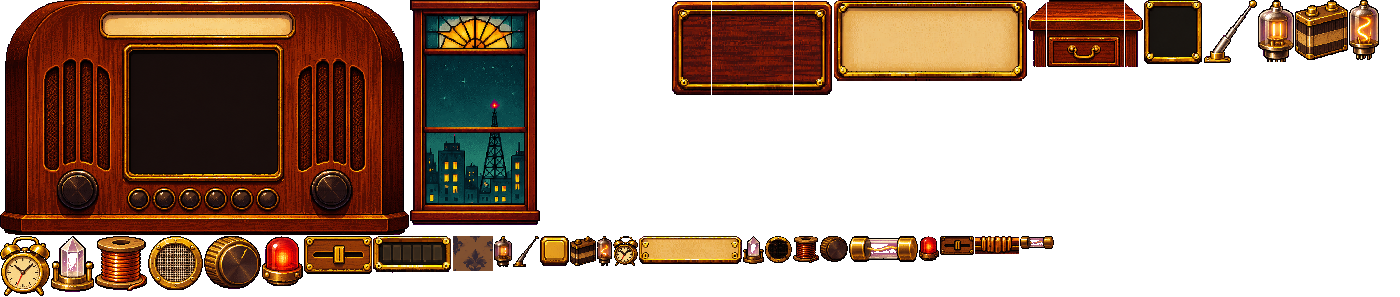
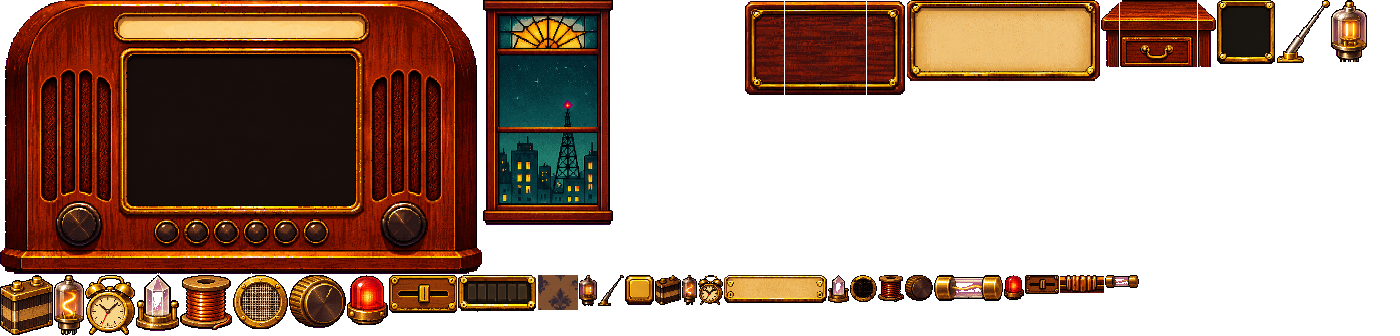
5x5 grid on a redrawn radio with a bigger glass; keys stay the same size
Claude-Session: https://claude.ai/code/session_01GgKVUEWXsHRvrCRcmJ6uSs

diff --git a/index.html b/index.html
@@ -170,7 +170,8 @@ const $ = (id) => document.getElementById(id);
 const DICT = new Set((window.LEX_WORDS || "").split(" "));
 const cv = $("screen"), ctx = cv.getContext("2d");          // the screen: 2 fine pixels per world pixel
 let H = 425, BAR_H = 120, SCENE_H = 305; const FINE = 2;   // narrower screens (phones) get a taller world with a two-row bar (H 495, bar 190)
-const PART_SLOTS = 5;   // a game rule, the same on every screen: copies of one part stack in one slot
+const PART_SLOTS = 5;
+const N = 5, NN = N * N;   // the grid of keys in the glass: 5 x 5 (2026-11-12, the radio was redrawn with a bigger glass for it)   // a game rule, the same on every screen: copies of one part stack in one slot
 const BIN = { t: 12, b: 12, l: 14, r: 14 };                  // the bar's inner gold border: everything sits inside it
 let W = 712, TK = 1;   // TK: text scale, 1.5 when the screen is small (phones) so typed text stays readable
 const world = document.createElement("canvas"), wctx = world.getContext("2d");   // the room, keys and bar, in world pixels
@@ -299,12 +300,12 @@ function layout() {
 function computeLayout() {
   const rw = R("radio")[2], wide = W >= 650;
   L.radioX = wide ? W - rw - 21 : W - rw - 5; L.radioY = 18;
-  L.winX = wide ? Math.max(18, Math.round((L.radioX - R("window")[2]) / 2)) : L.radioX - R("window")[2] + 10; L.winY = 22;   // the tall window (225 high) sits higher
+  L.winX = wide ? Math.max(18, Math.round((L.radioX - R("window")[2]) / 2)) : Math.max(L.radioX - R("window")[2] + 10, 20 - P("window").beacon[0]); L.winY = 22;   // the tall window (225 high) sits higher
   const bp = P("window").beacon; L.beacon = { x: L.winX + bp[0], y: L.winY + bp[1] };
   const rp = P("radio");
   L.glass = { x: L.radioX + rp.glass0[0], y: L.radioY + rp.glass0[1], w: rp.glass1[0] - rp.glass0[0], h: rp.glass1[1] - rp.glass0[1] };
-  L.gap = 4; L.tw = Math.floor((L.glass.w - 10 - 3 * L.gap) / 4); L.th = Math.floor((L.glass.h - 10 - 3 * L.gap) / 4);
-  L.gx = L.glass.x + Math.floor((L.glass.w - (4 * L.tw + 3 * L.gap)) / 2); L.gy = L.glass.y + Math.floor((L.glass.h - (4 * L.th + 3 * L.gap)) / 2);
+  L.gap = 4; L.tw = Math.floor((L.glass.w - 10 - (N - 1) * L.gap) / N); L.th = Math.floor((L.glass.h - 10 - (N - 1) * L.gap) / N);
+  L.gx = L.glass.x + Math.floor((L.glass.w - (N * L.tw + (N - 1) * L.gap)) / 2); L.gy = L.glass.y + Math.floor((L.glass.h - (N * L.th + (N - 1) * L.gap)) / 2);
   L.dial = { x: L.radioX + rp.dial0[0] + 1, y: L.radioY + rp.dial0[1] + 1, w: rp.dial1[0] - rp.dial0[0] - 2, h: rp.dial1[1] - rp.dial0[1] - 2 };
   L.meter = { x: L.radioX + rp.meter[0], y: L.radioY + rp.meter[1], r: rp.meterR[0] - rp.meter[0] };
   // the true middle of each lamp socket (measured on the art: half a pixel right of the marked point, and the fifth socket one more)
@@ -331,7 +332,8 @@ function computeLayout() {
     L.plateY0 = Math.round(mid - ph - 4); L.plateY1 = Math.round(mid + 4); L.slotY = Math.round(mid - sh / 2);
   }
 }
-const tileXY = (i) => ({ x: L.gx + (i % 4) * (L.tw + L.gap), y: L.gy + ((i / 4) | 0) * (L.th + L.gap) });
+const tileXY = (i) => ({ x: L.gx + (i % N) * (L.tw + L.gap), y: L.gy + ((i / N) | 0) * (L.th + L.gap) });
+const H5 = (i) => (i % 4) + ((i / 4) | 0) * N;   // a 4x4 position (old layouts, the demo words) on the 5x5 grid
 const tileC = (i) => { const p = tileXY(i); return { x: p.x + L.tw / 2, y: p.y + L.th / 2 }; };
 
 /* ---- the room: drawn once per layout, lit with a baked light map, dithered into the palette ---- */
@@ -401,7 +403,7 @@ let S = null, uid = 0;
 const has = (id) => S.parts.filter(p => p === id).length;
 const maxWords = () => BASE_WORDS + has("battery");
 const maxRetunes = () => 1 + has("knob");
-function fresh(phase) { return { phase, night: 1, score: 0, shown: 0, total: 0, parts: [], words: BASE_WORDS, retunes: 1, firstWord: true, grid: [], path: [], cursor: 5, best: { word: "", pts: 0 }, target: 30, log: [] }; }
+function fresh(phase) { return { phase, night: 1, score: 0, shown: 0, total: 0, parts: [], words: BASE_WORDS, retunes: 1, firstWord: true, grid: [], path: [], cursor: 6, best: { word: "", pts: 0 }, target: 30, log: [] }; }
 function pickLetter() {
   const filter = S && has("filter"), vowel = S && has("vowel"); let total = 0; const pool = [];
   for (const [k, w0] of Object.entries(WEIGHTS)) { if (filter && HARD.has(k)) continue; const w = w0 * (vowel && VOWELS.has(k) ? 1.7 : 1); pool.push([k, w]); total += w; }
@@ -409,29 +411,29 @@ function pickLetter() {
 }
 const newTile = () => ({ id: ++uid, ch: pickLetter(), hot: false, yOff: 0, vy: 0, wait: 0, lit: 0, land: 0, seed: Math.random() });
 const vowelCount = () => S.grid.filter(t => VOWELS.has(t.ch)).length;
-function ensureHot() { if (!has("carrier")) { S.grid.forEach(t => t.hot = false); return; } if (!S.grid.some(t => t.hot)) S.grid[(Math.random() * 16) | 0].hot = true; }
+function ensureHot() { if (!has("carrier")) { S.grid.forEach(t => t.hot = false); return; } if (!S.grid.some(t => t.hot)) S.grid[(Math.random() * NN) | 0].hot = true; }
 function fillGrid(dropIn) {
-  S.grid = Array.from({ length: 16 }, newTile);
-  let g = 0; while (vowelCount() < 4 && g++ < 50) S.grid[(Math.random() * 16) | 0].ch = "AEIOU"[(Math.random() * 5) | 0];
+  S.grid = Array.from({ length: NN }, newTile);
+  let g = 0; while (vowelCount() < 6 && g++ < 50) S.grid[(Math.random() * NN) | 0].ch = "AEIOU"[(Math.random() * 5) | 0];
   ensureHot();
-  if (dropIn) S.grid.forEach((t, i) => { const row = (i / 4) | 0; t.yOff = -(4 - row) * (L.th + L.gap) - 40 - (3 - row) * 8; t.vy = 0; t.wait = (i % 4) * 3; });
+  if (dropIn) S.grid.forEach((t, i) => { const row = (i / N) | 0; t.yOff = -(N - row) * (L.th + L.gap) - 40 - (N - 1 - row) * 8; t.vy = 0; t.wait = (i % N) * 3; });
 }
 // used letters vanish; letters above fall down their column; new letters fall in from the top
 function collapse(used) {
   const step = L.th + L.gap, usedSet = new Set(used), hold = PA() ? 12 : 0;   // the round-2 looks let the letters lift off first
-  for (let col = 0; col < 4; col++) {
-    const keep = []; for (let row = 3; row >= 0; row--) { const i = row * 4 + col; if (!usedSet.has(i)) keep.push({ t: S.grid[i], from: row }); }
-    const k = 4 - keep.length;
-    for (let j = 0; j < 4; j++) { const row = 3 - j, i = row * 4 + col;
+  for (let col = 0; col < N; col++) {
+    const keep = []; for (let row = N - 1; row >= 0; row--) { const i = row * N + col; if (!usedSet.has(i)) keep.push({ t: S.grid[i], from: row }); }
+    const k = N - keep.length;
+    for (let j = 0; j < N; j++) { const row = N - 1 - j, i = row * N + col;
       if (j < keep.length) { const { t, from } = keep[j]; t.yOff += (from - row) * step; t.vy = 0; t.wait = 4 + col * 2 + hold; S.grid[i] = t; }
       else { const t = newTile(), n = j - keep.length; t.yOff = -(k - n) * step - 14 - (k - n) * 5; t.wait = 10 + col * 2 + hold; S.grid[i] = t; } }
   }
-  let g = 0; while (vowelCount() < 3 && g++ < 50) { const fr = S.grid.filter(t => t.yOff < -1 && !VOWELS.has(t.ch)); if (!fr.length) break; fr[(Math.random() * fr.length) | 0].ch = "AEIOU"[(Math.random() * 5) | 0]; }
+  let g = 0; while (vowelCount() < 5 && g++ < 50) { const fr = S.grid.filter(t => t.yOff < -1 && !VOWELS.has(t.ch)); if (!fr.length) break; fr[(Math.random() * fr.length) | 0].ch = "AEIOU"[(Math.random() * 5) | 0]; }
   ensureHot();
 }
 const moving = () => S.grid.some(t => t.yOff !== 0 || t.vy !== 0);
 const pathWord = (p = S.path) => p.map(i => S.grid[i].ch).join("").toLowerCase();
-const adjacent = (a, b) => a !== b && Math.abs((a % 4) - (b % 4)) <= 1 && Math.abs(((a / 4) | 0) - ((b / 4) | 0)) <= 1;
+const adjacent = (a, b) => a !== b && Math.abs((a % N) - (b % N)) <= 1 && Math.abs(((a / N) | 0) - ((b / N) | 0)) <= 1;
 const isValid = (p = S.path) => { const w = pathWord(p); return w.length >= 3 && DICT.has(w); };
 function scoreOf(p) {
   const tiles = p.map(i => S.grid[i]), word = pathWord(p), len = word.length;
@@ -535,9 +537,9 @@ let flyers = [], sparks = [], pops = [], beams = [], beaconFlash = 0, shake = 0,
 function burst(x, y, n, col) { for (let i = 0; i < n; i++) { const a = Math.random() * 6.283, s = .8 + Math.random() * 2.6; sparks.push({ x, y, vx: Math.cos(a) * s, vy: Math.sin(a) * s - 1, life: 1, d: .025 + Math.random() * .03, col }); } }
 function update() {
   const thudCols = new Set();
-  for (let i = 0; i < 16; i++) { const t = S.grid[i]; if (!t) continue; if (t.wait > 0) { t.wait--; continue; }
+  for (let i = 0; i < NN; i++) { const t = S.grid[i]; if (!t) continue; if (t.wait > 0) { t.wait--; continue; }
     if (t.yOff < 0 || t.vy !== 0) { t.vy += .72; t.yOff += t.vy;
-      if (t.yOff >= 0) { if (t.vy > 2.8) { t.yOff = 0; t.vy = -t.vy * .22; thudCols.add(i % 4); t.land = 1; if (KS === 8) { const c = tileC(i); burst(c.x, c.y + L.th / 2, 4, C.amber); } } else { t.yOff = 0; t.vy = 0; } } } }
+      if (t.yOff >= 0) { if (t.vy > 2.8) { t.yOff = 0; t.vy = -t.vy * .22; thudCols.add(i % N); t.land = 1; if (KS === 8) { const c = tileC(i); burst(c.x, c.y + L.th / 2, 4, C.amber); } } else { t.yOff = 0; t.vy = 0; } } } }
   if (thudCols.size) { Sound.thud(thudCols.size); shake = Math.max(shake, 2); }
   for (let k = flyers.length - 1; k >= 0; k--) { const f = flyers[k]; f.t++; if (f.t >= f.dur) { flyers.splice(k, 1); if (f.last && pending) arrive(); } }
   for (const p of sparks) { p.x += p.vx; p.y += p.vy; p.vy += .08; p.vx *= .97; p.life -= p.d; } sparks = sparks.filter(p => p.life > 0);
@@ -598,7 +600,7 @@ function drawGrid() {
   const g = L.glass; wctx.save(); wctx.beginPath(); wctx.rect(g.x, g.y, g.w, g.h); wctx.clip();
   const n = Math.floor(staticLvl * 340); for (let k = 0; k < n; k++) dot(wctx, g.x + Math.random() * g.w, g.y + Math.random() * g.h, Math.random() < .5 ? C.snow : C.snowDim);
   const ok = S.phase === "play" && isValid(), sel = new Set(S.path);
-  for (let i = 0; i < 16; i++) { const t = S.grid[i]; if (!t || KS !== 0) continue; const p = tileXY(i), x = p.x, y = Math.round(p.y + t.yOff), on = sel.has(i);
+  for (let i = 0; i < NN; i++) { const t = S.grid[i]; if (!t || KS !== 0) continue; const p = tileXY(i), x = p.x, y = Math.round(p.y + t.yOff), on = sel.has(i);
     wctx.fillStyle = C.keyShadow; wctx.fillRect(x + 1, y + 2, L.tw, L.th);
     wctx.fillStyle = on ? (ok ? C.gold : C.amber) : C.keyFill; wctx.fillRect(x, y, L.tw, L.th);
     wctx.fillStyle = on ? (ok ? C.hot : C.selEdge) : C.keyEdge; wctx.fillRect(x, y, L.tw, 1); wctx.fillRect(x, y + L.th - 1, L.tw, 1); wctx.fillRect(x, y, 1, L.th); wctx.fillRect(x + L.tw - 1, y, 1, L.th);
@@ -728,7 +730,7 @@ function drawKeyLetters() {
   // the traced path, drawn first so keys sit on it (smooth styles)
   if (KS !== 0 && S.path.length > 1) { ctx.lineCap = ctx.lineJoin = "round"; ctx.beginPath(); S.path.forEach((i, k) => { const c = tileC(i); const y = FX(c.y + S.grid[i].yOff); k ? ctx.lineTo(FX(c.x), y) : ctx.moveTo(FX(c.x), y); });
     ctx.strokeStyle = ok ? "#fff2c8" : "#ffb347"; ctx.lineWidth = 7; ctx.shadowColor = ok ? "#ffd27a" : "#ff9a30"; ctx.shadowBlur = 16; ctx.stroke(); ctx.shadowBlur = 0; }
-  for (let i = 0; i < 16; i++) { const t = S.grid[i]; if (!t || t.ch === " ") continue; const p = tileXY(i), on = sel.has(i), hv = i === cand && !usingButtons;
+  for (let i = 0; i < NN; i++) { const t = S.grid[i]; if (!t || t.ch === " ") continue; const p = tileXY(i), on = sel.has(i), hv = i === cand && !usingButtons;
     const x = FX(p.x), y = FX(p.y + t.yOff), w = FX(L.tw), hh = FX(L.th), cx = x + w / 2, cy = y + hh / 2, v = VALUES[t.ch];
     const ch = t.ch === "Qu" ? "Qu" : t.ch;
     if (KS === 0) {
@@ -966,7 +968,7 @@ function paDotGlass({ G, tiles, ok, low }) {
   const frameOf = (x, y, a) => { ctx.globalAlpha = a; ctx.fillStyle = "#0e0806"; rr(ctx, x + 1, y - 1, w0 - 2, h0 + 2, 5); ctx.fill(); ctx.strokeStyle = "rgba(130,86,52,.4)"; ctx.lineWidth = 1.5; ctx.stroke(); };
   for (const g of ghosts) if (g.t < 16) { const a = 1 - g.t / 16, x = FX(g.x) - w0 / 2, y = FX(g.y) - h0 / 2; frameOf(x, y, a);
     for (let r = 0; r < 7; r++) for (let c = 0; c < 9; c++) ctx.drawImage(OFF, x + 4 + c * 6, y + 4 + r * 6, 6, 6); ctx.globalAlpha = 1; }
-  for (const o of tiles) { const { t, x, y, w, hh } = o, lit = t.lit, mx = x + 4, my = y + 4, b = bits(o.ch === "Qu" ? "Q" : o.ch), qu = o.ch === "Qu", lc = qu ? 1 : 2;
+  for (const o of tiles) { const { t, x, y, w, hh } = o, lit = t.lit, mx = x + Math.round((w - 54) / 2), my = y + Math.round((hh - 42) / 2), b = bits(o.ch === "Qu" ? "Q" : o.ch), qu = o.ch === "Qu", lc = qu ? 1 : 2;
     const scr = t.land > .4, dim = 1 - low * .35 * (1 - lit), wave = o.on && ok;
     // (picked letters stay steady until the traced word is a real word; then they flicker too)
     // flicker: now and then a module's letter stutters for a few frames (each module on its own random clock), and its dots shimmer faintly
@@ -1008,7 +1010,7 @@ const PA_CUR = [["#ffe9c4", "#ff8a20"], null, ["#ffe9c4", "#ff8a20"], ["#fff3d6"
 function drawPlayArea() {
   const g = L.glass, G = { x: FX(g.x), y: FX(g.y), w: FX(g.w), h: FX(g.h) }, play = S.phase === "play", ok = play && isValid(), cand = candidate(), low = play ? clamp01(1 - S.words / maxWords()) : 0, last = play && S.words === 1;
   ctx.save(); ctx.beginPath(); ctx.rect(G.x, G.y, G.w, G.h); ctx.clip(); ctx.imageSmoothingEnabled = true; ctx.textAlign = "center"; ctx.textBaseline = "middle"; ctx.lineCap = ctx.lineJoin = "round";
-  const tiles = []; for (let i = 0; i < 16; i++) { const t = S.grid[i]; if (!t || t.ch === " ") continue; const p = tileXY(i), x = FX(p.x), y = FX(p.y + t.yOff), w = FX(L.tw), hh = FX(L.th), k = S.path.indexOf(i);
+  const tiles = []; for (let i = 0; i < NN; i++) { const t = S.grid[i]; if (!t || t.ch === " ") continue; const p = tileXY(i), x = FX(p.x), y = FX(p.y + t.yOff), w = FX(L.tw), hh = FX(L.th), k = S.path.indexOf(i);
     tiles.push({ t, i, x, y, w, hh, cx: x + w / 2, cy: y + hh / 2, on: k >= 0, k, hv: i === cand, v: VALUES[t.ch], dots: Math.min(4, Math.ceil(VALUES[t.ch] / 2)), ch: t.ch }); }
   PA_DRAW[KS - 6]({ G, tiles, ok, low, last, play });
   for (const o of tiles) if (o.t.hot) { ctx.strokeStyle = (frame >> 3) & 1 ? "#ff3a2e" : "#ff8060"; ctx.lineWidth = 3; ctx.shadowColor = "#ff3a2e"; ctx.shadowBlur = 14; rr(ctx, o.x - 1, o.y - 2, o.w + 1, o.hh + 2, 9); ctx.stroke(); ctx.shadowBlur = 0; }
@@ -1377,7 +1379,7 @@ function drawTitle() {
 // radio close-up: the room seen closer (every art pixel 3 fine pixels, a clean 1.5x), the radio centred and filling the screen. The
 // title lights up in its glass as keys (LEXI / CON / SIGN / AL), one key at a time, then the lamps, then a brass PRESS START plate.
 function drawTitleRadio(T) {
-  const ease = (u) => { u = Math.max(0, Math.min(1, u)); return u * u * (3 - 2 * u); }, Z = 3, rw = R("radio")[2], rh = R("radio")[3];
+  const ease = (u) => { u = Math.max(0, Math.min(1, u)); return u * u * (3 - 2 * u); }, rw = R("radio")[2], rh = R("radio")[3], Z = rw * 3 <= cv.width - 20 && rh * 3 <= cv.height - 60 ? 3 : 2;
   const ox = Math.round(cv.width / 2 - rw * Z / 2), oy = Math.max(10, Math.round((cv.height - rh * Z) / 2) - 70);
   const zx = (wx) => ox + (wx - L.radioX) * Z, zy = (wy) => oy + (wy - L.radioY) * Z;
   // wallpaper first (the room canvas doesn't reach every edge this close), dimmed to the room's light, then the room itself
@@ -1390,7 +1392,7 @@ function drawTitleRadio(T) {
   // the title glass is Chris's painted picture, in two versions: everything unlit, and lit. Each letter's box of the lit one fades in
   // over the unlit one, so letters switch on one at a time with a stutter, breathe, and now and then one drops out for a moment.
   if (titleGlass.ready) {
-    const tg = titleGlass, sx = gw / tg.w, sy = gh / tg.h; ctx.save(); ctx.imageSmoothingEnabled = true; ctx.drawImage(tg.dim, gx, gy, gw, gh);
+    const tg = titleGlass, sx = Math.min(gw / tg.w, gh / tg.h), sy = sx, ox2 = gx + (gw - tg.w * sx) / 2, oy2 = gy + (gh - tg.h * sy) / 2; ctx.save(); ctx.imageSmoothingEnabled = true; ctx.drawImage(tg.dim, ox2, oy2, tg.w * sx, tg.h * sy);   // (the painted 4x4 glass, kept in proportion in the bigger glass for now)
     if (!glassFl || T < 2) { let t = 36; glassFl = tg.boxes.map(() => { t += 3 + Math.random() * 8; const st = []; for (let i = 0, n = 4 + Math.random() * 10; i < n; i++) st.push(Math.random() < .5 ? .1 + Math.random() * .3 : .7 + Math.random() * .3);
       return { on: Math.round(t), start: st, next: 0, seq: null, i: 0 }; }); }
     tg.boxes.forEach((b, k) => { const f = glassFl[k], on = T - f.on; if (on === 0) Sound.blip(1 + k % 12);
@@ -1402,7 +1404,7 @@ function drawTitleRadio(T) {
           else for (let i = 0, n = 2 + Math.random() * 7; i < n; i++) s.push(Math.random() < .6 ? Math.random() * .35 : .6 + Math.random() * .4);
           f.seq = s; f.i = 0; if (!long && Math.random() < .3) Sound.tick(); }
         if (f.seq) { v = f.seq[f.i >> (f.seq.length > 12 ? 0 : 1)] ?? 1; if (++f.i >= f.seq.length * (f.seq.length > 12 ? 1 : 2)) { f.seq = null; f.next = frame + 15 + Math.random() * (Math.random() < .3 ? 40 : 200); } } }
-      if (v <= 0) return; const bx = gx + b[0] * sx, by = gy + b[1] * sy, bw = (b[2] - b[0]) * sx, bh = (b[3] - b[1]) * sy;
+      if (v <= 0) return; const bx = ox2 + b[0] * sx, by = oy2 + b[1] * sy, bw = (b[2] - b[0]) * sx, bh = (b[3] - b[1]) * sy;
       ctx.globalAlpha = v; ctx.drawImage(tg.lit, b[0], b[1], b[2] - b[0], b[3] - b[1], bx, by, bw, bh);
       ctx.globalCompositeOperation = "lighter"; ctx.globalAlpha = 1;
       bloom(bx + bw / 2, by + bh / 2, Math.max(bw, bh) * 1.1, "255,150,50", .3 * v); ctx.globalCompositeOperation = "source-over"; });
@@ -1436,17 +1438,17 @@ function drawTitleRadio(T) {
    three short lines, dots for where you are. A or right: next. B or left: back (B on the first card: back to the title). Tap the
    right half of the screen for next, the left half for back. KEEP THESE CARDS TRUE TO THE GAME when its rules or controls change. */
 const HOW = { on: false, card: 0, t: 0, shop: false };
-const HOW_GRID = "DATEROGSLINKMUSE";   // D A T E / R O G S / L I N K / M U S E: words to show are DOTE, RATE (not touching first), LINK, MUSE
-const howPick = (i) => [[0, () => { S.cursor = i; usingButtons = true; }], [12, () => tapTile(i)]];
+const HOW_GRID = "DATEPROGSHLINKAMUSETBRCOY";   // 5x5: the old 4x4 demo board in the top left (D A T E / R O G S / L I N K / M U S E) plus a column and row   // (demo words are DOTE, RATE (not touching first), LINK, MUSE
+const howPick = (i4) => { const i = H5(i4); return [[0, () => { S.cursor = i; usingButtons = true; }], [12, () => tapTile(i)]]; };
 const HOW_CARDS = [
   { title: "SPELL A WORD", keys: ["DPAD", "A"], len: 250, text: "Pick letters that touch: side to side or corner to corner. Three or more letters that make a real word light up and sweep with light.",
     setup() {}, steps: [[30, 0], [62, 5], [94, 2], [126, 3]].flatMap(([t, i]) => howPick(i).map(([d, f]) => [t + d, f])) },
   { title: "LETTERS MUST TOUCH", keys: [], len: 290, text: "Each new letter has to touch the last one. A letter that doesn't touch won't join the word: pick one that does.",
     setup() {}, steps: [[30, 4], [62, 1], [94, 2], [140, 15], [200, 3]].flatMap(([t, i]) => howPick(i).map(([d, f]) => [t + d, f])) },
   { title: "SEND IT", keys: ["A"], len: 330, text: "Press A on the last letter again, or tap it again, to send the word. Its letters fly to the tower and the signal comes back down into the tube.",
-    setup() {}, steps: [...[[30, 8], [58, 9], [86, 10], [114, 11]].flatMap(([t, i]) => howPick(i).map(([d, f]) => [t + d, f])), [170, () => tapTile(11)]] },
+    setup() {}, steps: [...[[30, 8], [58, 9], [86, 10], [114, 11]].flatMap(([t, i]) => howPick(i).map(([d, f]) => [t + d, f])), [170, () => tapTile(H5(11))]] },
   { title: "FILL THE TUBE", keys: [], len: 340, text: "Fill the signal tube before the lamps go dark. Every word you send uses one lamp. Longer words and letters with more dots fill it faster.",
-    setup() { S.score = S.shown = 18; S.words = 3; }, steps: [...[[30, 12], [58, 13], [86, 14], [114, 15]].flatMap(([t, i]) => howPick(i).map(([d, f]) => [t + d, f])), [170, () => tapTile(15)]] },
+    setup() { S.score = S.shown = 18; S.words = 3; }, steps: [...[[30, 12], [58, 13], [86, 14], [114, 15]].flatMap(([t, i]) => howPick(i).map(([d, f]) => [t + d, f])), [170, () => tapTile(H5(15))]] },
   { title: "STUCK? RETUNE", keys: ["START"], len: 220, text: "Retune swaps every letter for new ones, once a night. The small light over the right knob shows you still have it.",
     setup() {}, steps: [[80, () => retune()]] },
   { title: "RADIO PARTS", keys: [], len: 260, text: "Clear a night to fit one of three radio parts. They sit in the slots below and light up when they help. That's the basics!",
@@ -1460,7 +1462,7 @@ function howReset() {
 }
 function howStart() { HOW.on = true; HOW.card = 0; HOW.t = 0; Sound.ensure(); Sound.music(); howReset(); HOW_CARDS[0].setup(); Sound.click(); }
 function howGo(k) { HOW.card = k; HOW.t = 0; howReset(); HOW_CARDS[k].setup(); Sound.click(); }
-function howExit() { HOW.on = false; S = fresh("title"); fillGrid(false); "LEXICONSIGNAL".split("").forEach((ch, k) => { S.grid[[0, 1, 2, 3, 4, 5, 6, 8, 9, 10, 11, 12, 13][k]].ch = ch; }); [7, 14, 15].forEach(i => S.grid[i].ch = " ");
+function howExit() { HOW.on = false; S = fresh("title"); fillGrid(false); S.grid.forEach(t => t.ch = " "); "LEXICONSIGNAL".split("").forEach((ch, k) => { S.grid[H5([0, 1, 2, 3, 4, 5, 6, 8, 9, 10, 11, 12, 13][k])].ch = ch; });
   titleT = 0; titleSkip = true; titleSel = 1; flyers = []; beams = []; busy = 0; pending = null; Sound.click(); }
 function howKey(k) { if (!HOW.on) return false;
   if (k === "a" || k === "right") { if (HOW.card < HOW_CARDS.length - 1) howGo(HOW.card + 1); else howExit(); }
@@ -1613,7 +1615,7 @@ function move(dx, dy) { const dk = dx < 0 ? "left" : dx > 0 ? "right" : dy < 0 ?
   if (S.phase === "shop") { shopFocus = (shopFocus + (dx || dy) + shopChoices.length) % shopChoices.length; Sound.click(); return; }
   if (S.phase === "swap") { const n = partSlots().length; swapFocus = (swapFocus + (dx || dy) + n) % n; Sound.click(); return; }
   if (S.phase !== "play") return;
-  const x = S.cursor % 4 + dx, y = ((S.cursor / 4) | 0) + dy; S.cursor = ((y + 4) % 4) * 4 + ((x + 4) % 4); knobA.L += .35 * (dx + dy); Sound.tickMove();
+  const x = S.cursor % N + dx, y = ((S.cursor / N) | 0) + dy; S.cursor = ((y + N) % N) * N + ((x + N) % N); knobA.L += .35 * (dx + dy); Sound.tickMove();
 }
 function titleBusy() { if (S.phase === "title" && !titleSkip && titleT < TITLE_LEN[TS]) { titleSkip = true; return true; } return false; }
 function start() { Sound.ensure(); Sound.music(); newRun(); }
@@ -1634,7 +1636,7 @@ window.addEventListener("keydown", (e) => {
   if (k === "m") { e.preventDefault(); Sound.ensure(); Sound.toggle(); }
 });
 function toWorld(e) { const r = cv.getBoundingClientRect(), s = Math.min(r.width / W, r.height / H), ox = (r.width - W * s) / 2, oy = (r.height - H * s) / 2; return { x: (e.clientX - r.left - ox) / s, y: (e.clientY - r.top - oy) / s }; }
-function keyAt(p, strict) { for (let i = 0; i < 16; i++) { const c = tileC(i), mx = strict ? L.tw * .38 : L.tw * .6, my = strict ? L.th * .38 : L.th * .6; if (Math.abs(p.x - c.x) < mx && Math.abs(p.y - c.y) < my) return i; } return -1; }
+function keyAt(p, strict) { for (let i = 0; i < NN; i++) { const c = tileC(i), mx = strict ? L.tw * .38 : L.tw * .6, my = strict ? L.th * .38 : L.th * .6; if (Math.abs(p.x - c.x) < mx && Math.abs(p.y - c.y) < my) return i; } return -1; }
 let down = null, dragging = false;
 cv.addEventListener("pointerdown", (e) => {
   Sound.ensure(); usingButtons = false; e.preventDefault(); if (introPress()) return; const p = toWorld(e);
@@ -1933,15 +1935,14 @@ async function boot() {
   loadTitleGlass();
   // only our own test and Workshop links skip straight to the title (the page can be opened with other hashes, which must not skip the intro)
   S = fresh(/^#(test-|keys-|title-)/.test(location.hash) ? "title" : "splash"); barShow = 0; layout(); fillGrid(false);
-  "LEXICONSIGNAL".split("").forEach((ch, k) => { S.grid[[0, 1, 2, 3, 4, 5, 6, 8, 9, 10, 11, 12, 13][k]].ch = ch; });
-  [7, 14, 15].forEach(i => S.grid[i].ch = " ");
+  S.grid.forEach(t => t.ch = " "); "LEXICONSIGNAL".split("").forEach((ch, k) => { S.grid[H5([0, 1, 2, 3, 4, 5, 6, 8, 9, 10, 11, 12, 13][k])].ch = ch; });
   // test hook: a hash ending in -step does not run by itself; window.LEXSTEP(n) advances n frames (for recording clips frame by frame)
   devHooks();
   if (/-step$/.test(location.hash)) window.LEXSTEP = (n = 1) => { while (n-- > 0) { update(); draw(); } }; else requestAnimationFrame(loop);
   // test hook: #test-shop opens the part picker after night 1 (for screenshots)
   if (location.hash === "#test-shop") { newRun(); S.parts.push("amp", "coil"); nightClear(); }
   if (location.hash === "#test-swap") { newRun(); S.parts.push("amp", "amp", "coil", "echo", "owl", "short"); nightClear(); const k = shopChoices.findIndex(c => !S.parts.includes(c.id)); if (k >= 0) choosePart(k); }
-  if (location.hash.startsWith("#test-word")) { newRun(); setTimeout(() => { "RATEDOGSLINKMUSE".split("").forEach((ch, i) => S.grid[i].ch = ch); S.grid.forEach(t => { t.yOff = 0; t.vy = 0; t.wait = 0; }); S.path = [0, 1, 2]; usingButtons = true; S.cursor = 3; if (location.hash.includes("fill")) S.score = S.shown = 17; if (location.hash.includes("parts")) { S.parts = ["battery", "battery", "knob", "echo", "amp"]; S.words = maxWords(); S.retunes = maxRetunes(); } nightCard = 0; }, 300); }
+  if (location.hash.startsWith("#test-word")) { newRun(); setTimeout(() => { "RATEDOGSLINKMUSE".split("").forEach((ch, i) => S.grid[H5(i)].ch = ch); S.grid.forEach(t => { t.yOff = 0; t.vy = 0; t.wait = 0; }); S.path = [0, 1, 2]; usingButtons = true; S.cursor = 3; if (location.hash.includes("fill")) S.score = S.shown = 17; if (location.hash.includes("parts")) { S.parts = ["battery", "battery", "knob", "echo", "amp"]; S.words = maxWords(); S.retunes = maxRetunes(); } nightCard = 0; }, 300); }
 }
 boot();
 })();

diff --git a/art/pixel/build.py b/art/pixel/build.py
@@ -17,15 +17,16 @@ import pix
 
 SRC = "art/pixel/src/"
 OUT = "art/pixel/"
-SQUARE = {"uikit": 3.197}     # sources whose fixed rows need evening out: real pixel size in source px (both axes)
+SQUARE = {"uikit": 3.197, "radio5": 3.236}     # sources whose fixed rows need evening out: real pixel size in source px (both axes)
 SPRITES = {
     # the window (2026-11-12, Chris picked design 7 of 9: tall, stained glass across the top). Its source had no recoverable grid, so
     # window7_fixed.png is a k-centroid downscale (art/pixel/kdown.py) to 141x233: same width as before, taller.
     "window": {"src": "window7", "points": {"beacon": (174.5, 210.5)}},
-    "radio": {"src": "radio", "points": {
-        "glass0": (552, 214), "glass1": (1102, 688), "dial0": (462, 84), "dial1": (1148, 150), "meter": (1312, 146), "meterR": (1392, 146),
-        "lamp0": (583, 783), "lamp1": (678, 783), "lamp2": (773, 783), "lamp3": (868, 783), "lamp4": (963, 783), "lamp5": (1062, 783),
-        "knobL": (358, 745), "knobR": (1300, 745)}},
+    # the radio (2026-11-12): redrawn with a bigger glass for a 5x5 grid (radio5); the 4x4 one ("radio" source) is kept for reference
+    "radio": {"src": "radio5", "points": {
+        "glass0": (429, 222), "glass1": (1171, 714), "dial0": (412, 106), "dial1": (1163, 174), "meter": (1440, 140), "meterR": (1460, 140),
+        "lamp0": (559, 797), "lamp1": (655, 797), "lamp2": (751, 797), "lamp3": (847, 797), "lamp4": (943, 797), "lamp5": (1041, 797),
+        "knobL": (276, 791), "knobR": (1328, 790)}},
     # the sideboard is a left end, one repeating drawer bay and a right end, so it stretches to any width
     "sb_left": {"src": "sideboard", "crop": (12, 360, 72, 589)},
     "sb_mid": {"src": "sideboard", "crop": (72, 360, 327, 589)},
@@ -78,7 +79,7 @@ def main():
             WIN_BOX[:] = [box[0], box[1]]
         piece = im.crop(box)
         if "crop" not in s: x0, y0 = box[0] / fx, box[1] / fy
-        if name == "radio":
+        if name == "radio" and s["src"] == "radio":
             # the round meter top right did nothing (Chris 2026-11-12): wood over it, a mirror of the same spot on the left of the
             # cabinet (the cabinet is symmetrical), so the space is clean and free for something better later
             ra = np.asarray(piece).copy(); x0, y0, x1, y1 = 308, 5, 364, 60; rw_ = ra.shape[1]

diff --git a/.claude/skills/lexicon-signal-dev/SKILL.md b/.claude/skills/lexicon-signal-dev/SKILL.md
@@ -78,6 +78,9 @@ the same batch.
 - The radio's round meter (top right) was painted out in build.py (a mirror of the cabinet's plain left side, plus plain wood
   beside it); the spot is free for something better later. drawMeter is unused.
 - Never put a // comment in the middle of a line of code: it silently cuts off the calls after it (it hid the whole play area once).
+- The radio is radio5 (482 x 274 true size, glass 229 x 152): ChatGPT redraw of the old radio with a bigger glass, fixed with
+  fix_pixel_art (standard) and its rows evened out (SQUARE 3.236). The old 4x4 radio source stays in src/ for reference. The title's
+  painted glass is still the 4x4 picture, kept in proportion inside the bigger glass for now.
 - Bar contents always sit inside the bar's inner gold border, centred on one line with one equal gap.
 - Part icons (2026-11-12, Chris found the old ones not good enough): build.py cuts each icon as the biggest blob in its sheet cell
   (no neighbour bits or specks). Slots draw the full icon on the fine layer at one art pixel per fine pixel (full detail, no shrink),
@@ -130,7 +133,8 @@ the same batch.
   then while the word stays good (Chris, 2026-11-12: subtle, and the wipe only for a real word).
 
 ## Rules of play
-- 4x4 keys in the radio glass; trace touching letters (8 directions), 3+ letters. Score = signal (letter values) x boost (length-2)
+- 5x5 keys in the radio glass (N, NN in the script; 4x4 until 2026-11-12, when the radio was redrawn as radio5 with a glass about
+  25% bigger so the keys stay the same size; H5() maps an old 4x4 position onto the 5x5 grid); trace touching letters (8 directions), 3+ letters. Score = signal (letter values) x boost (length-2)
   x part multipliers; every word carries +2 signal so short words count. 6 words a night (one per lamp), 1 retune; targets
   30 x 1.4^(n-1) rounded to 5 (30, 40, 60, 80...); pick 1 of 3 parts. Night 1 was too hard at 40 in 5 words (Chris kept losing).
 - The goal is said plainly: a brass plaque that drops in at the top of the room with a clunk ("NIGHT 1 / BEAM 30 SIGNAL IN 6 WORDS"),
